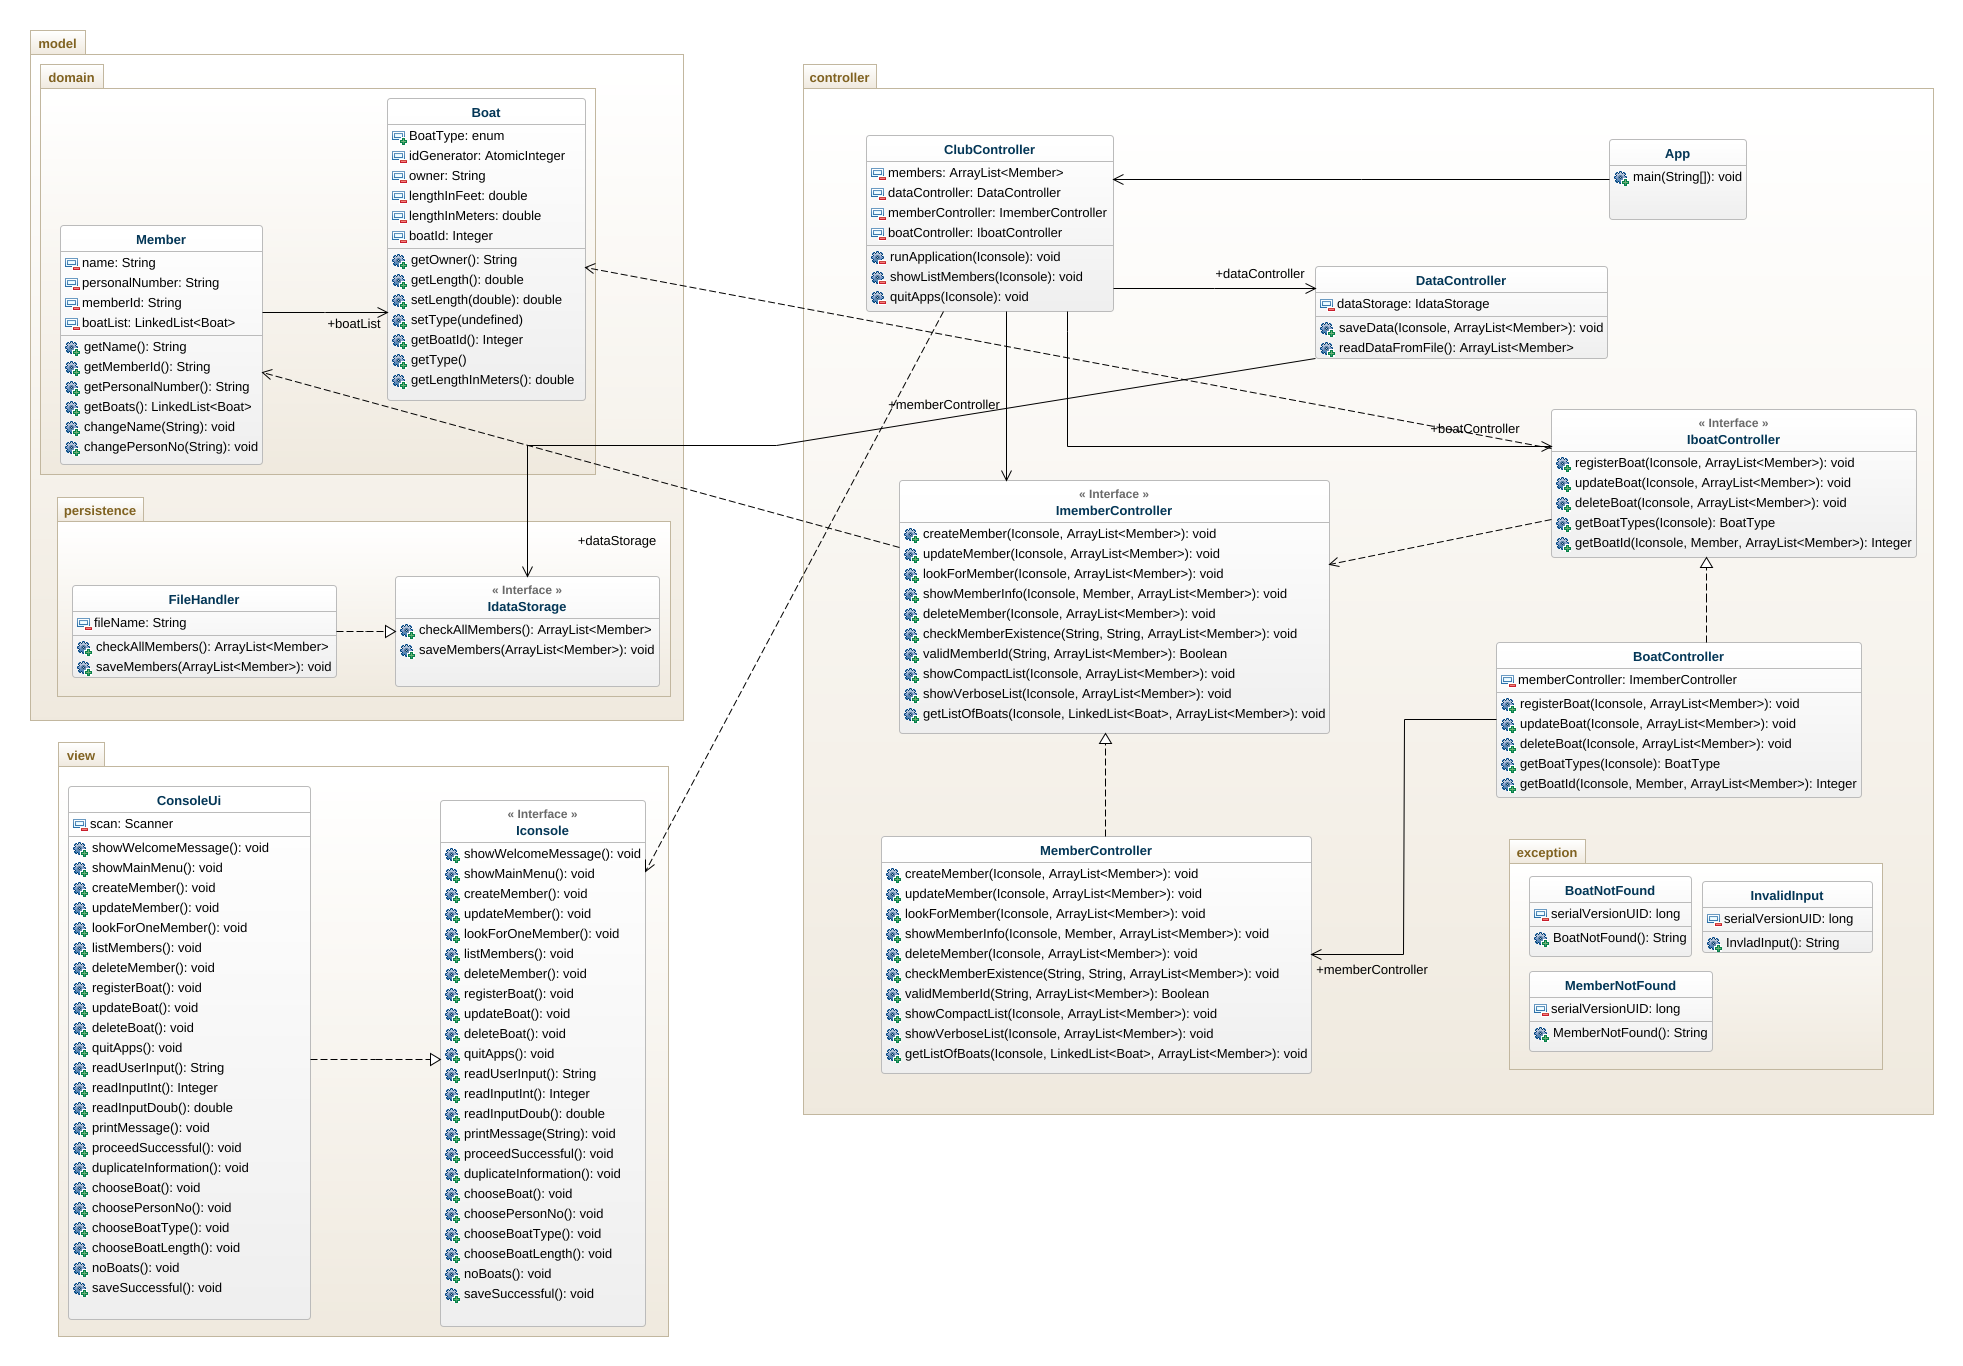
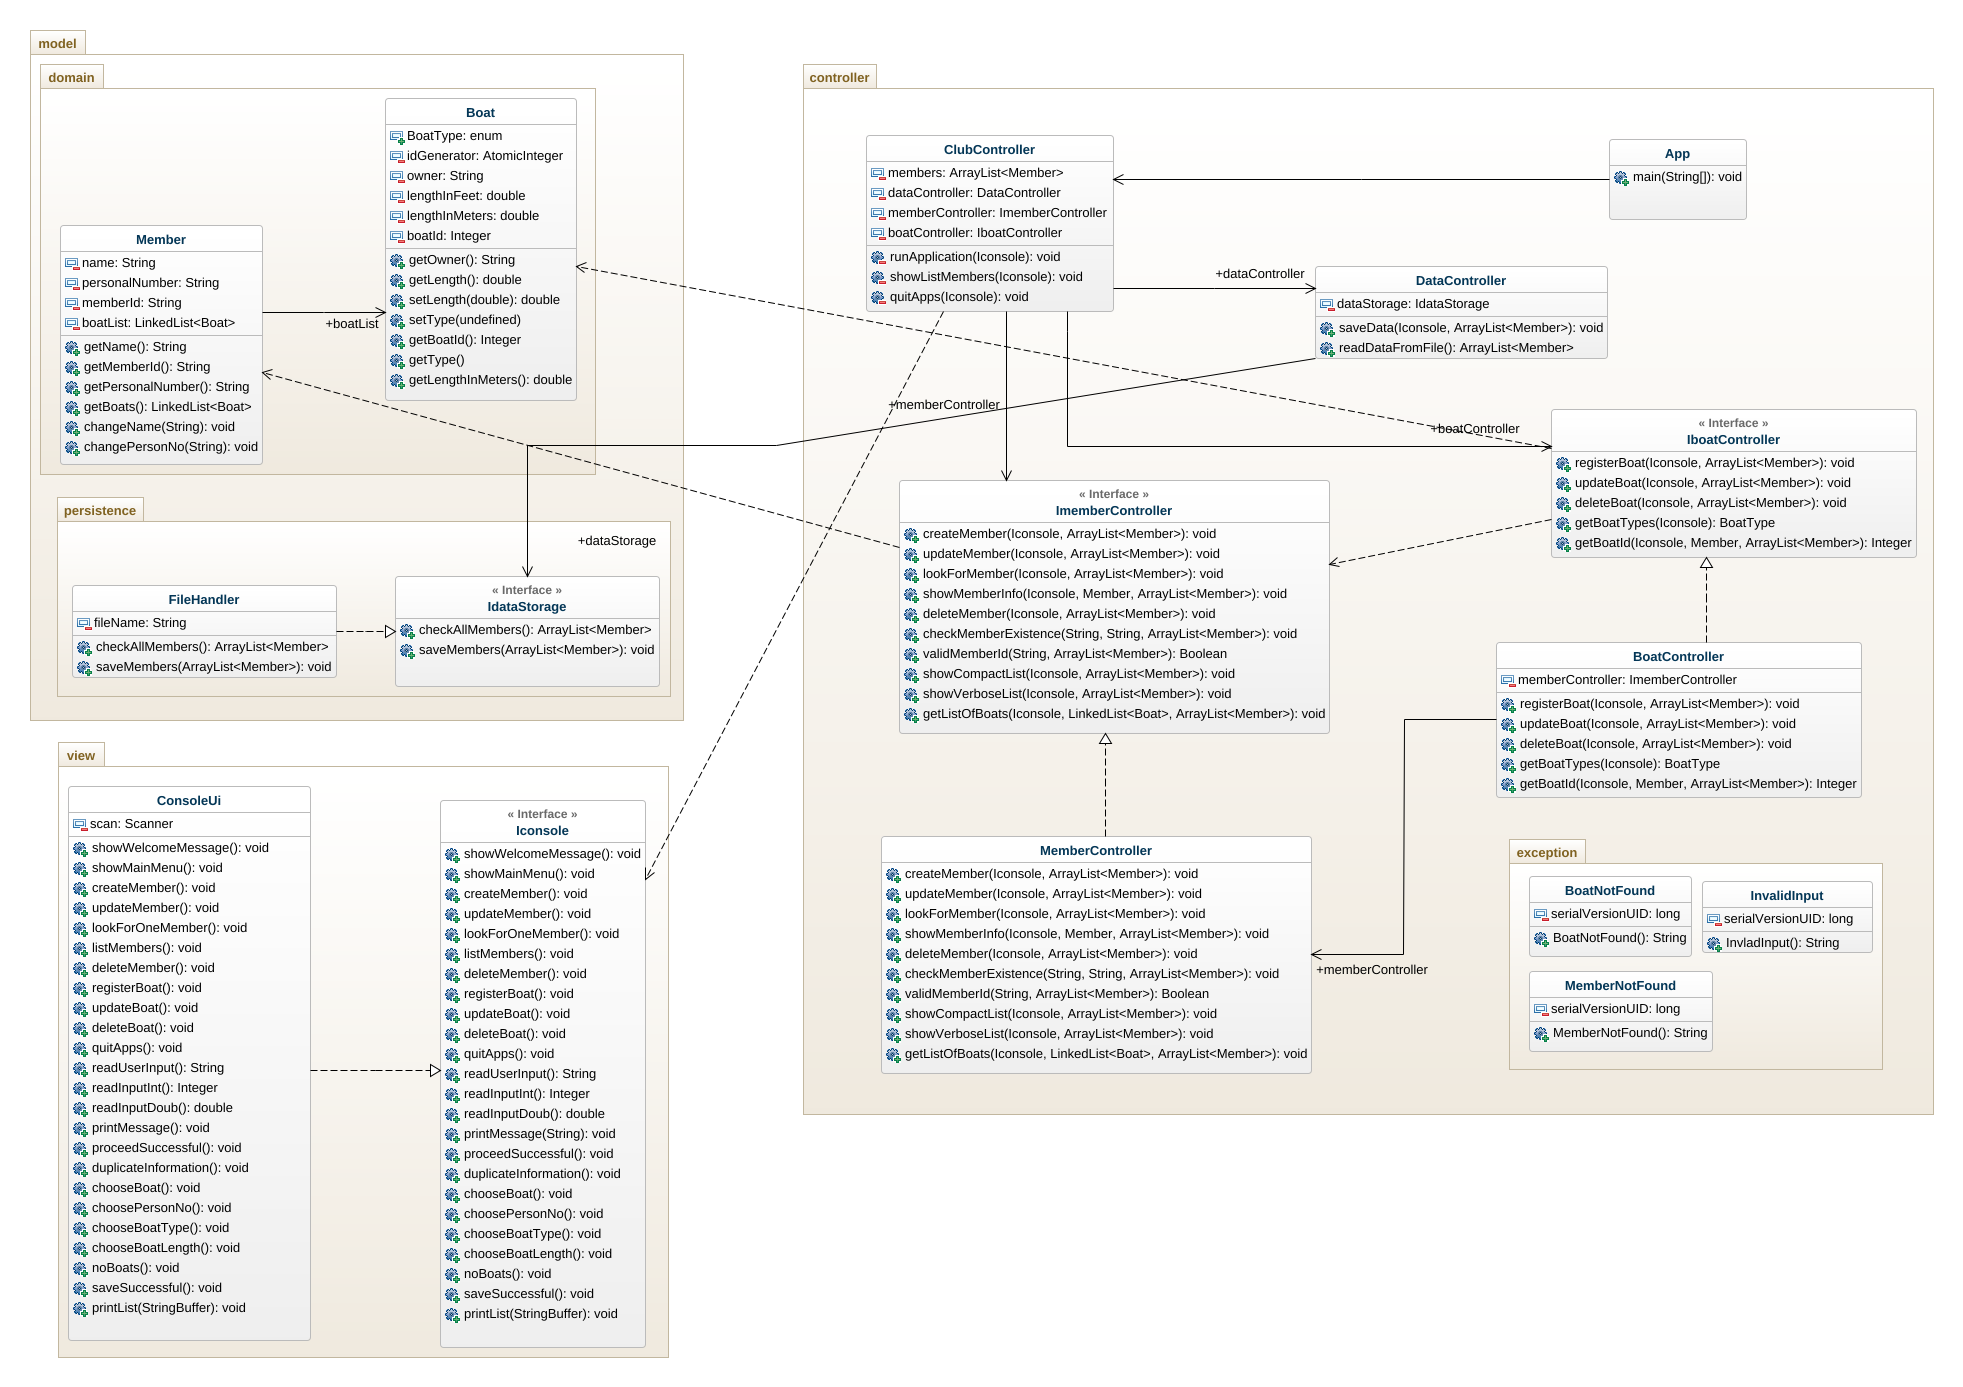
fix print list i Please enter the commit message for your changes. Lines starting

diff --git a/src/main/java/controller/MemberController.java b/src/main/java/controller/MemberController.java
@@ -142,7 +142,7 @@ public class MemberController implements ImemberController {
   @Override
   public void showCompactList(Iconsole ui, ArrayList<Member> members) {
     StringBuffer compactList = new StringBuffer();
-    System.out.println("---------------------COMPACT LIST OF ALL MEMBERS----------------------\n");
+    ui.printMessage("---------------------COMPACT LIST OF ALL MEMBERS----------------------\n");
     if (members.size() != 0) {
       for (Member m : members) {
         compactList.append("Member Id: " + m.getMemberId() + "\n");
@@ -151,13 +151,13 @@ public class MemberController implements ImemberController {
         compactList.append("===================================\n");
       }
     }
-    System.out.println(compactList);
+    ui.printList(compactList);
   }
 
   @Override
   public void showVerboseList(Iconsole ui, ArrayList<Member> members) {
     StringBuffer verboseList = new StringBuffer();
-    System.out.println(
+    ui.printMessage(
         "--------------------------VERBOSE LIST OF ALL MEMBERS--------------------------\n");
     if (members.size() != 0) {
       for (Member m : members) {
@@ -180,7 +180,7 @@ public class MemberController implements ImemberController {
         verboseList.append("----------------------------------------------------------------\n");
       }
     }
-    System.out.println(verboseList);
+    ui.printList(verboseList);
   }
 
   @Override

diff --git a/src/main/java/view/ConsoleUi.java b/src/main/java/view/ConsoleUi.java
@@ -93,7 +93,8 @@ public class ConsoleUi implements Iconsole {
   public void quitApps() {
     System.out.println(
         "______________________________________________________________________________________________");
-    System.out.println("******************* Yacht Club application TERMINATED **************************\n");
+    System.out.println(
+        "******************* Yacht Club application TERMINATED **************************\n");
     System.out.println(
         "______________________________________________________________________________________________\n");
   }
@@ -173,5 +174,10 @@ public class ConsoleUi implements Iconsole {
   @Override
   public void saveSuccessful() {
     System.out.println("Data has been saved.");
+  }
+
+  @Override
+  public void printList(StringBuffer list) {
+    System.out.println(list);
   }
 }

diff --git a/src/main/java/view/Iconsole.java b/src/main/java/view/Iconsole.java
@@ -51,4 +51,6 @@ public interface Iconsole {
   void noBoats();
 
   void saveSuccessful();
+
+  void printList(StringBuffer list);
 }
